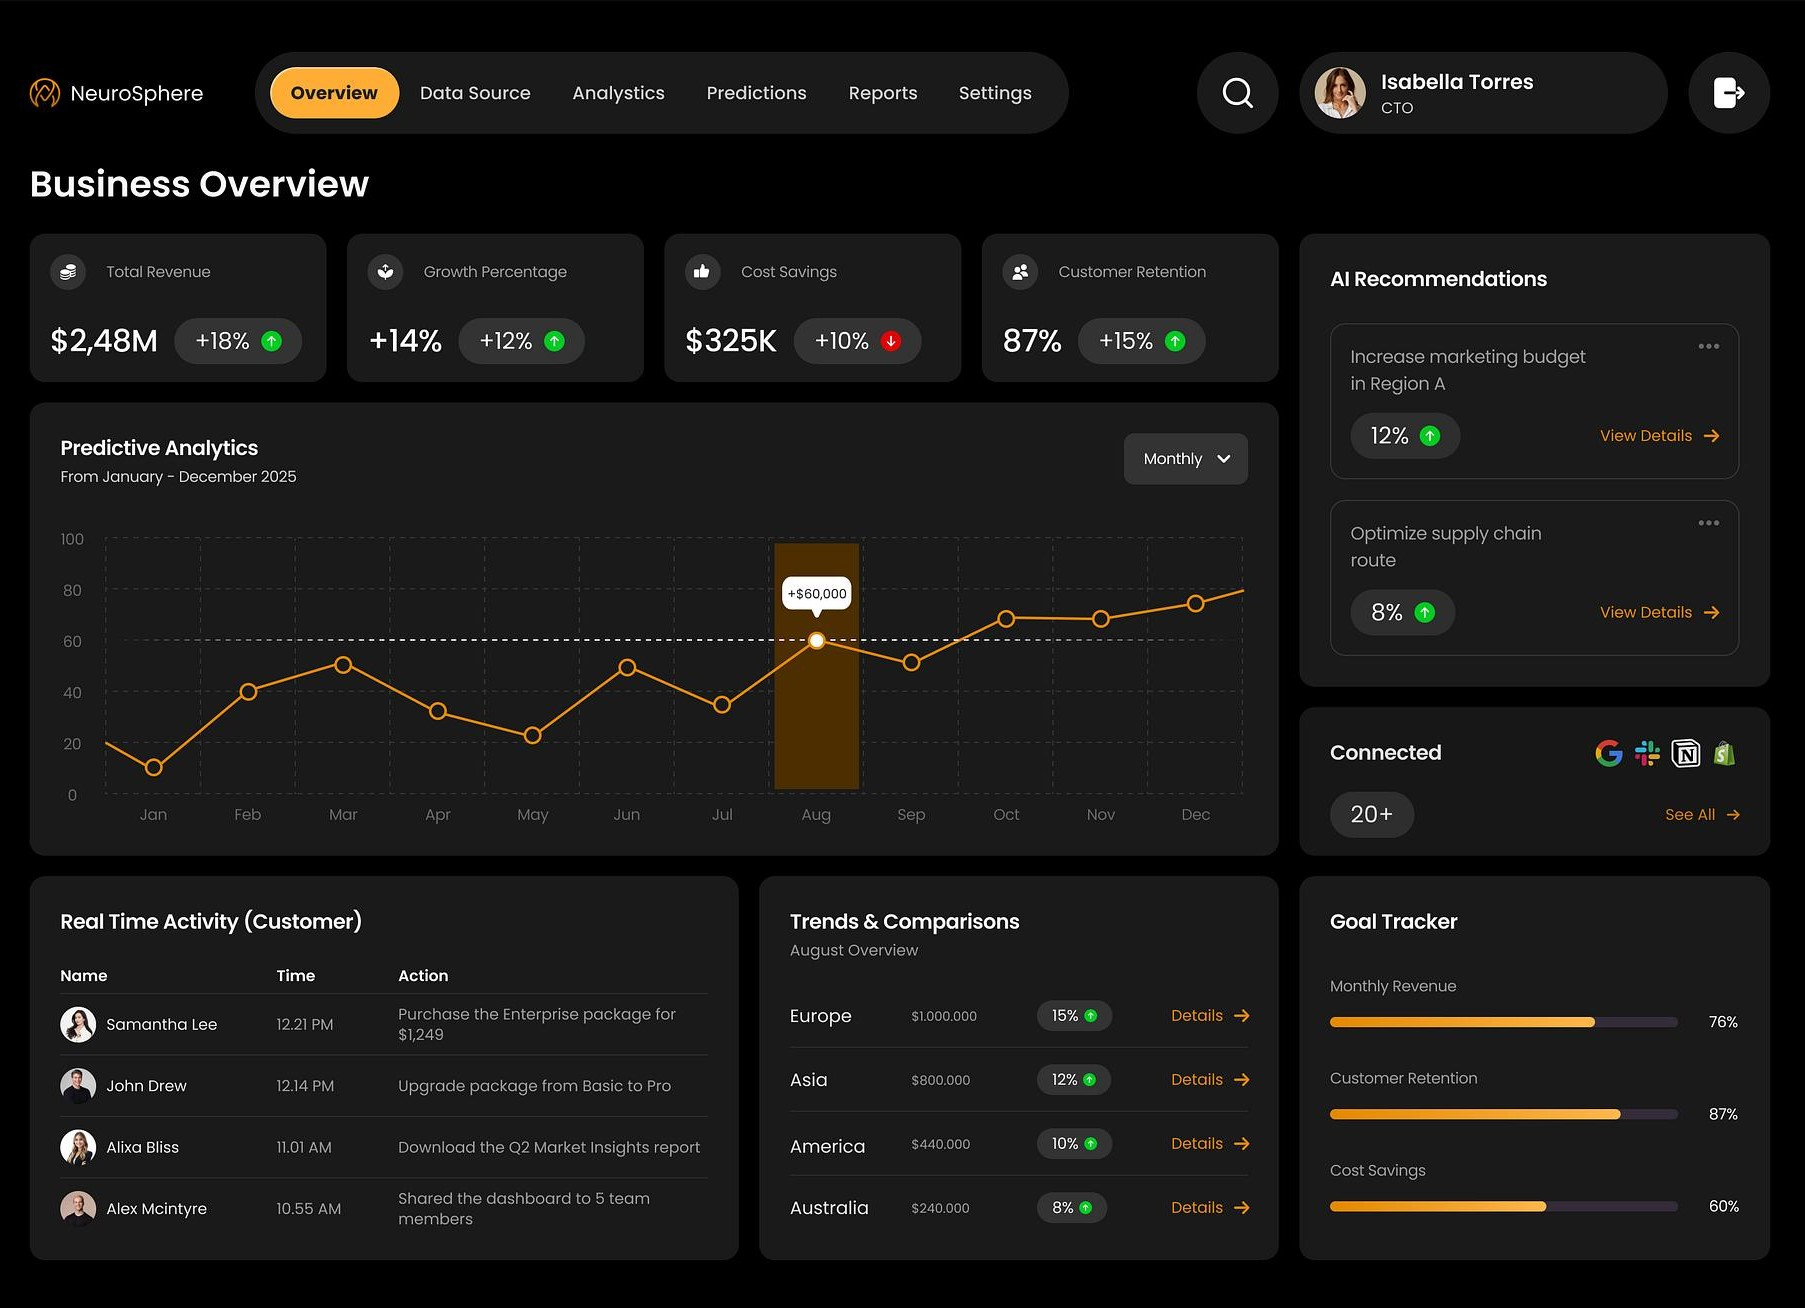
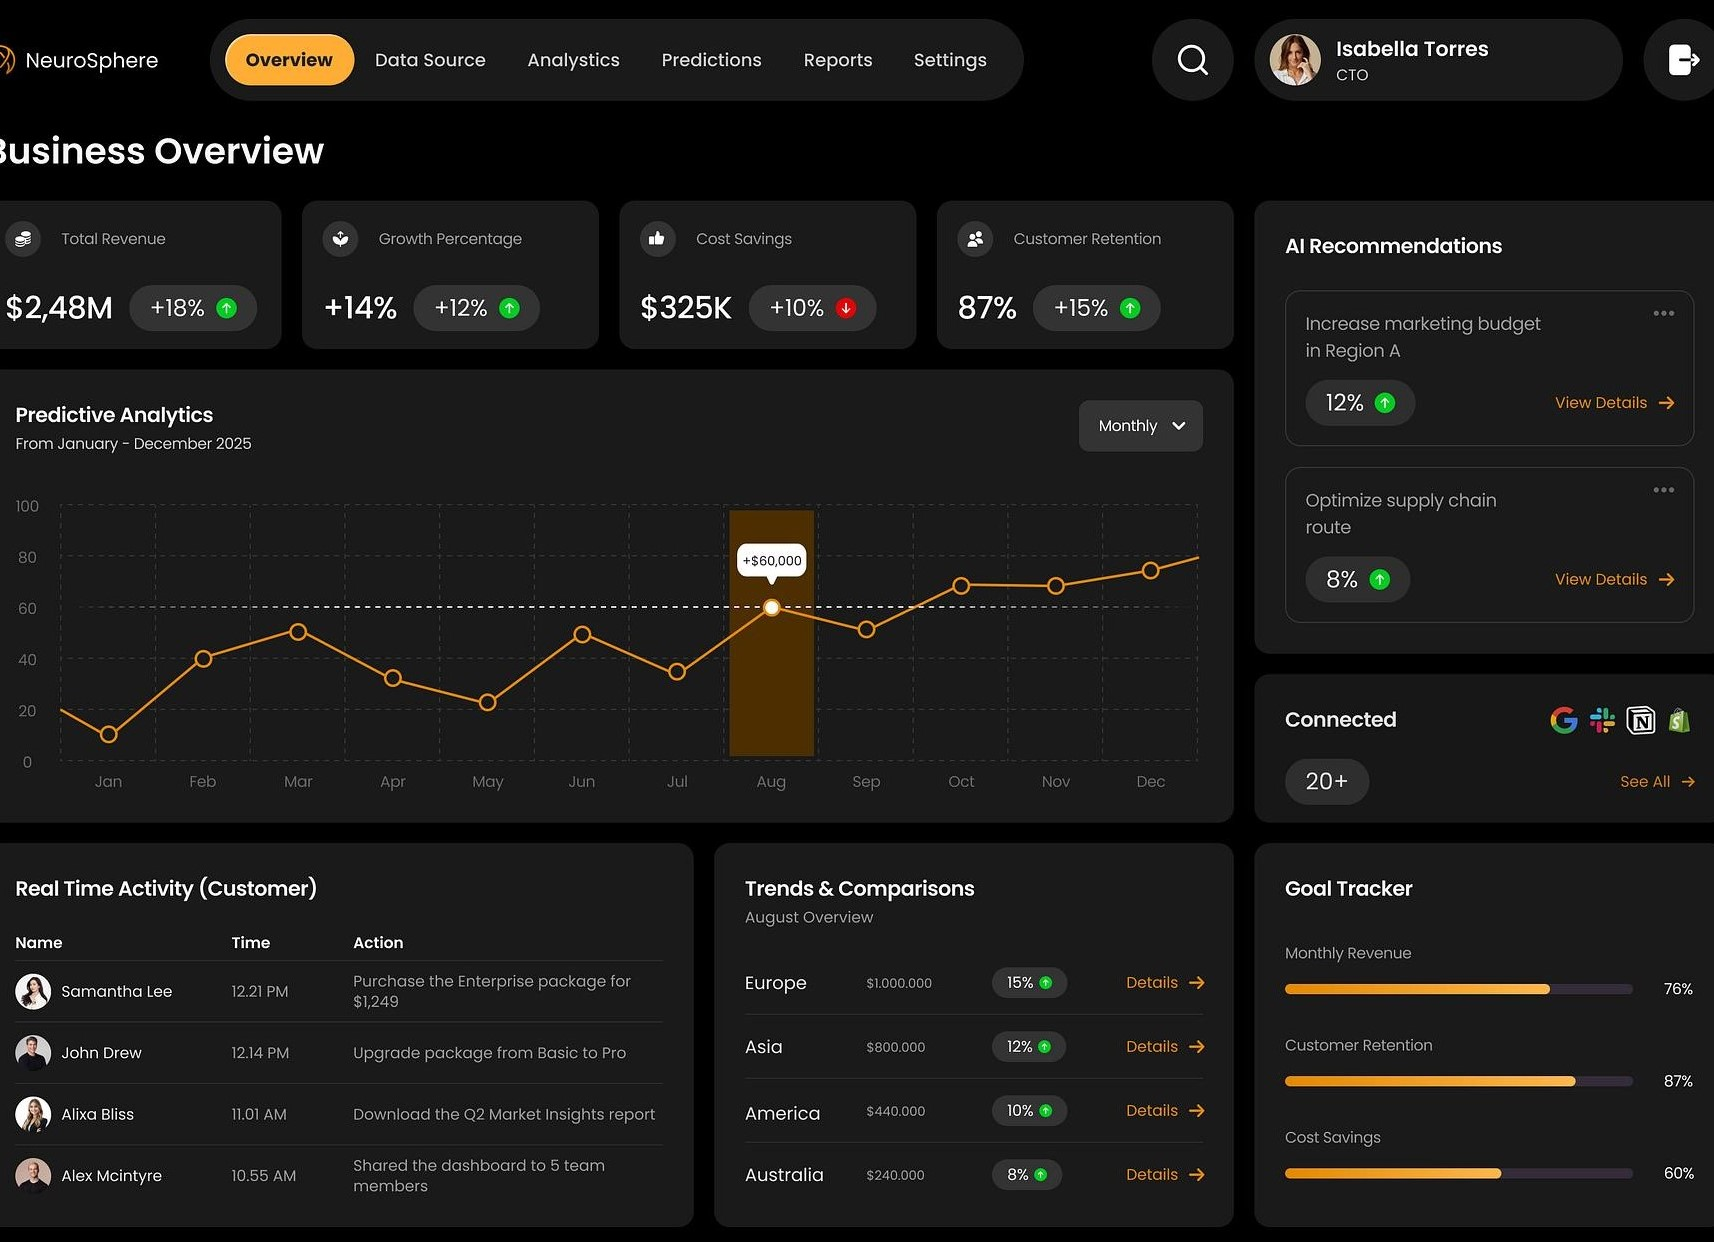
yas

diff --git a/index.html b/index.html
@@ -876,7 +876,30 @@
      
           </div>
           <div class="project-grid"> 
-            
+            <article class="project-card" data-category="full stack web">
+              <div id="img">
+                <img src="assets/img/InsightAI.jpg">
+              </div>
+              <div>
+                  <span>AI • BUSINESS INTELLIGENCE</span>
+
+                  <h3>InsightAI – Business Intelligence Platform</h3>
+
+                  <p>AI-powered BI platform that transforms CSV and Excel data into interactive dashboards, financial reports, and actionable business insights.</p>
+
+                  <div class="tags">
+                    <b>React.js</b>
+                    <b>Django</b>
+                    <b>Python</b>
+                    <b>PostgreSQL</b>
+                    <b>AI Analytics</b>
+                    <b>Tailwind CSS</b>
+                  </div>
+                          
+              <button class="primary" data-service="Web Application">Discuss Project ↗</button>
+             </div>
+            </article>
+
             <article class="project-card" data-category="full stack web">
 
               <div id="img">
@@ -901,30 +924,6 @@
                 <button class="primary"
                   data-service="Web Application">Discuss Project ↗</button>
               </div>
-            </article>
-            <article class="project-card" data-category="full stack web">
-
-              <div id="img">
-                <img src="assets/img/project 5.png">
-              </div>
-              <div>
-                  <span>AI • BUSINESS INTELLIGENCE</span>
-
-                  <h3>InsightAI – Business Intelligence Platform</h3>
-
-                  <p>AI-powered BI platform that transforms CSV and Excel data into interactive dashboards, financial reports, and actionable business insights.</p>
-
-                  <div class="tags">
-                    <b>React.js</b>
-                    <b>Django</b>
-                    <b>Python</b>
-                    <b>PostgreSQL</b>
-                    <b>AI Analytics</b>
-                    <b>Tailwind CSS</b>
-                  </div>
-                          
-              <button class="primary" data-service="Web Application">Discuss Project ↗</button>
-             </div>
             </article>
           </div>
       
